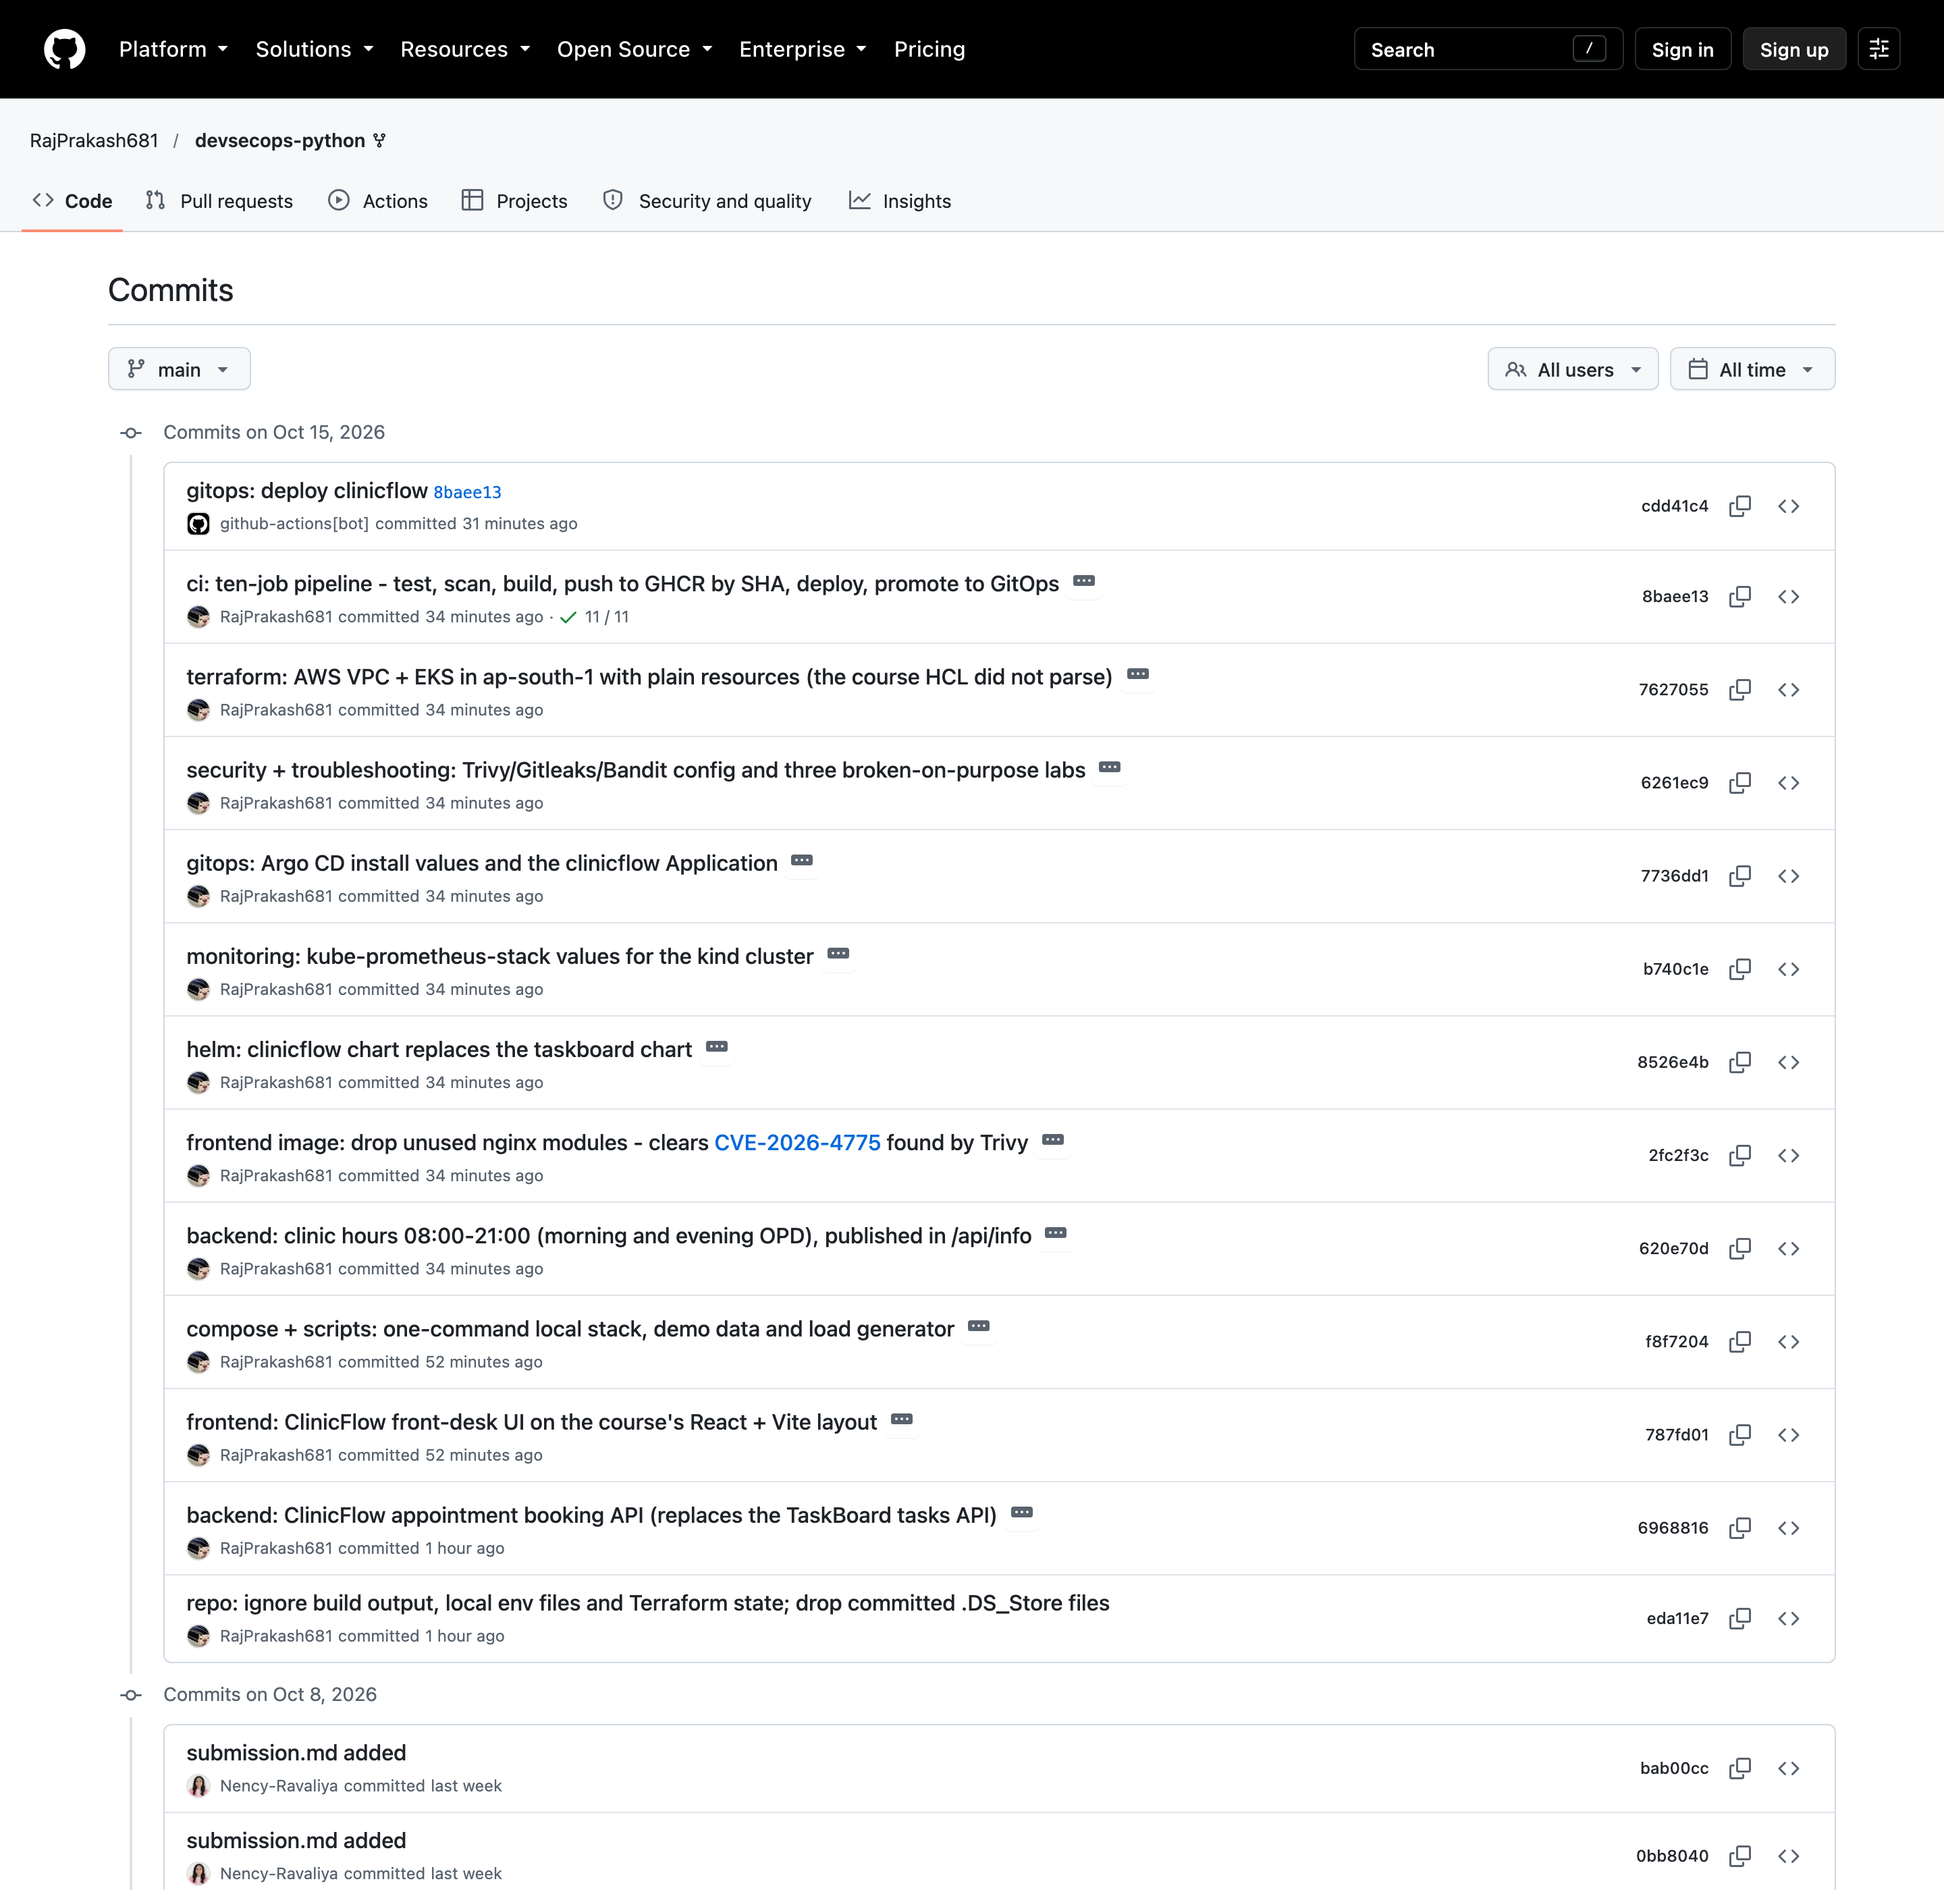
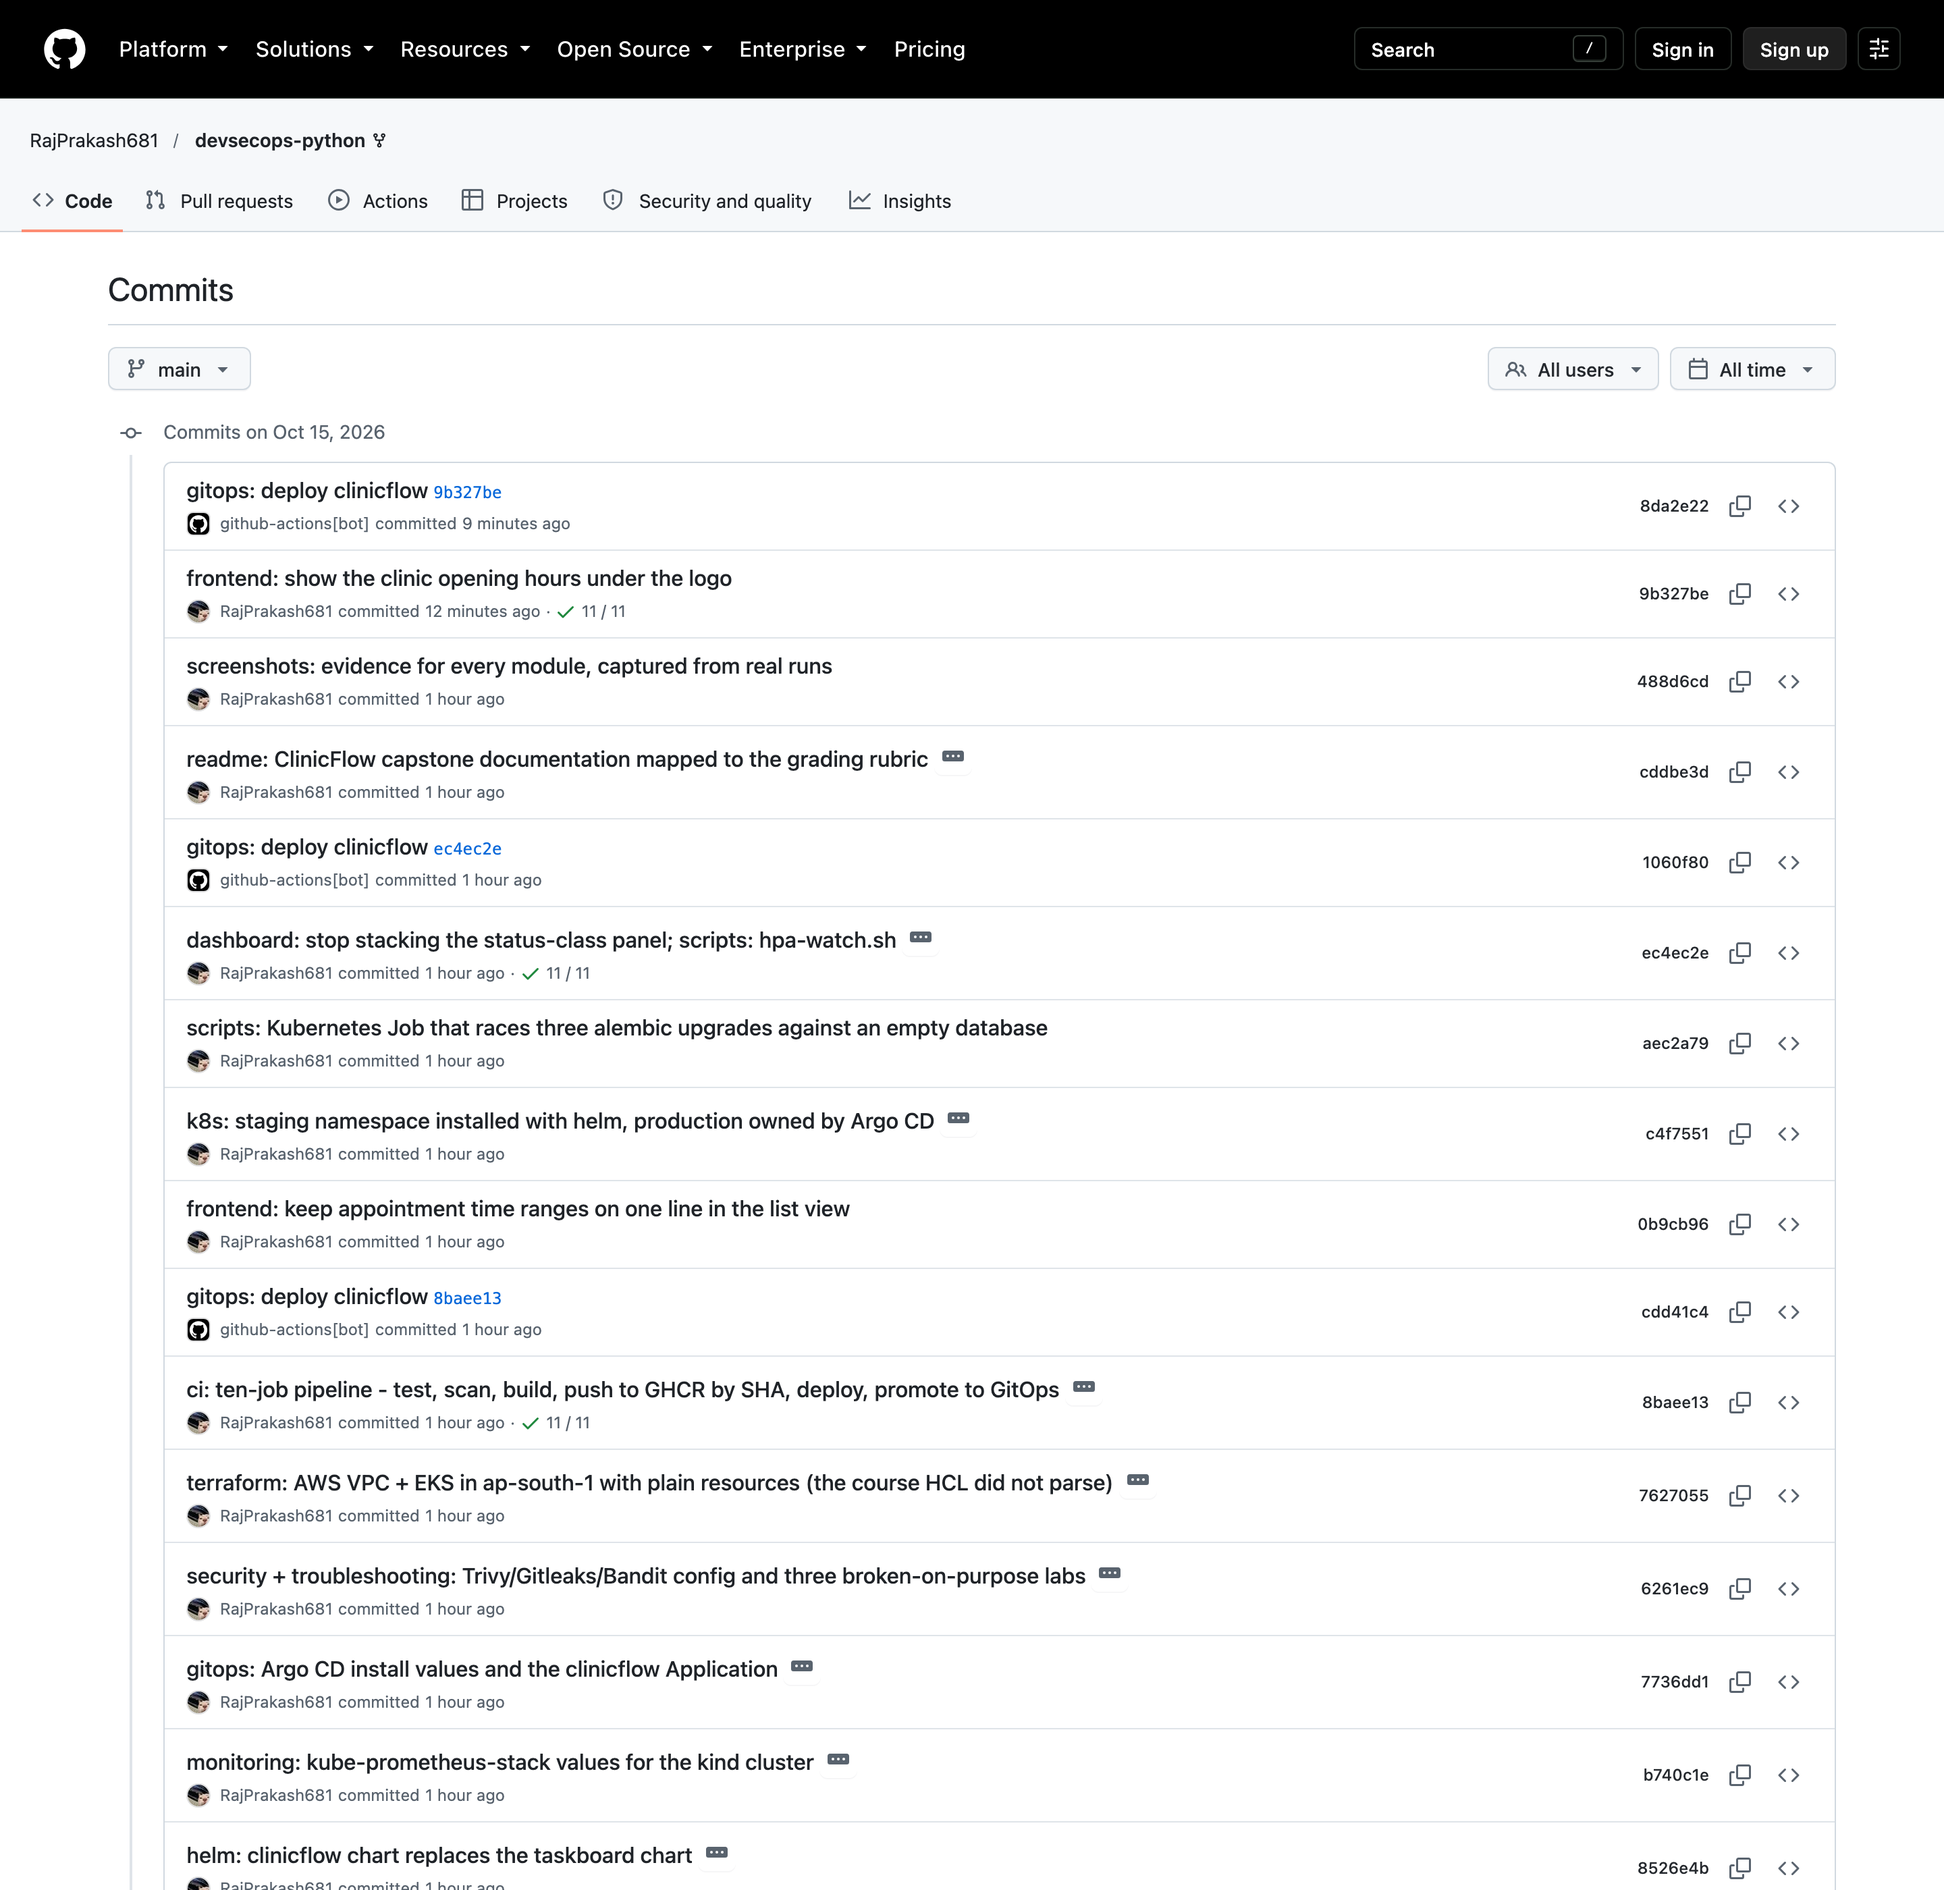
readme: run #3 (the change pushed live in the demo); screenshots: GHCR with three SHA tags

diff --git a/README.md b/README.md
@@ -340,13 +340,13 @@ between the scan and the push, so the image that was pushed was never the one th
 |---|---|---|
 | [#1](https://github.com/RajPrakash681/devsecops-python/actions/runs/38745731599) | `8baee13` | ✅ 11/11 jobs, 3m 1s, first run |
 | [#2](https://github.com/RajPrakash681/devsecops-python/actions/runs/38751588093) | `ec4ec2e` | ✅ 11/11 jobs, 3m 26s; Argo CD deployed it automatically |
-| [#3](RUN3_URL) | `RUN3_SHA` | RUN3_RESULT (the change made live in the demo video) |
+| [#3](https://github.com/RajPrakash681/devsecops-python/actions/runs/38760376972) | `9b327be` | ✅ 11/11 jobs, 3m 23s: the change pushed live in the demo video (opening hours under the logo), deployed by Argo CD |
 
 ![pipeline](screenshots/m5-10-github-actions-pipeline.png)
 
 Published images (public): [clinicflow-backend](https://github.com/RajPrakash681/devsecops-python/pkgs/container/clinicflow-backend)
 and [clinicflow-frontend](https://github.com/RajPrakash681/devsecops-python/pkgs/container/clinicflow-frontend),
-one SHA tag per pipeline run:
+one SHA tag per pipeline run (three runs, three tags, no `latest`):
 
 | Backend | Frontend |
 |---|---|
